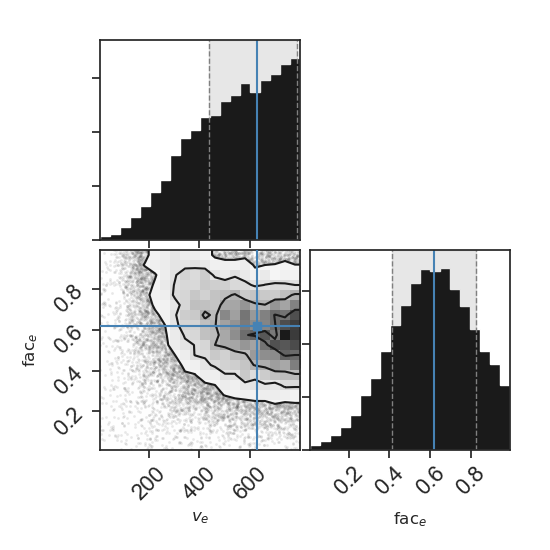
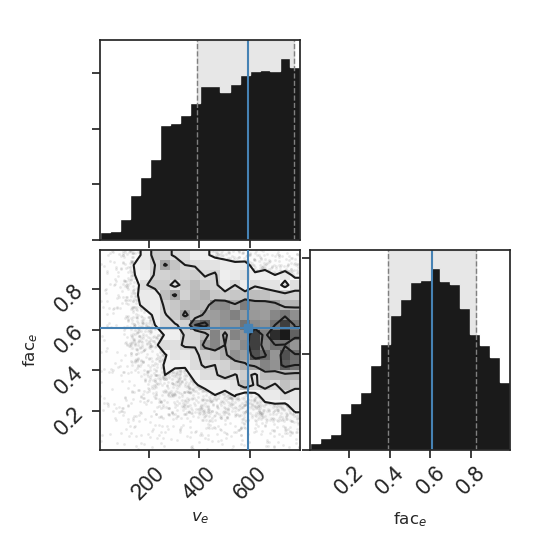
commiting to merge

diff --git a/bemcee/utils.py b/bemcee/utils.py
@@ -510,46 +510,47 @@ def readBAsed(xdrpath, quiet=False):
     | OUTPUT: listpar, lbdarr, minfo, models
     | (list of mods parameters, lambda array (um), mods index, mods flux)
     """
-    f = open(xdrpath, "rb").read()
-    ixdr = 0
-    #
-    npxs = 3
-    upck = ">{0}l".format(npxs)
-    header = np.array(struct.unpack(upck, f[ixdr : ixdr + npxs * 4]))
-    ixdr += npxs * 4
-    nq, nlb, nm = header
-    #
-    npxs = nq
-    upck = ">{0}l".format(npxs)
-    header = np.array(struct.unpack(upck, f[ixdr : ixdr + npxs * 4]))
-    ixdr += npxs * 4
-    #
-    listpar = [[] for i in range(nq)]
-    for i in range(nq):
-        npxs = header[i]
-        upck = ">{0}f".format(npxs)
-        listpar[i] = np.array(struct.unpack(upck, f[ixdr : ixdr + npxs * 4]))
+    with open(xdrpath, "rb") as fi:
+        f = fi.read()
+        ixdr = 0
+        #
+        npxs = 3
+        upck = ">{0}l".format(npxs)
+        header = np.array(struct.unpack(upck, f[ixdr : ixdr + npxs * 4]))
         ixdr += npxs * 4
-    #
-    npxs = nlb
-    upck = ">{0}f".format(npxs)
-    lbdarr = np.array(struct.unpack(upck, f[ixdr : ixdr + npxs * 4]))
-    ixdr += npxs * 4
-    #
-    npxs = nm * (nq + nlb)
-    upck = ">{0}f".format(npxs)
-    models = np.array(struct.unpack(upck, f[ixdr : ixdr + npxs * 4]))
-    ixdr += npxs * 4
-    models = models.reshape((nm, -1))
-    # this will check if the XDR is finished.
-    if ixdr == len(f):
-        if not quiet:
-            print("# XDR {0} completely read!".format(xdrpath))
-    else:
-        _warn.warn(
-            "# XDR {0} not completely read!\n# length "
-            "difference is {1}".format(xdrpath, (len(f) - ixdr) / 4)
-        )
+        nq, nlb, nm = header
+        #
+        npxs = nq
+        upck = ">{0}l".format(npxs)
+        header = np.array(struct.unpack(upck, f[ixdr : ixdr + npxs * 4]))
+        ixdr += npxs * 4
+        #
+        listpar = [[] for i in range(nq)]
+        for i in range(nq):
+            npxs = header[i]
+            upck = ">{0}f".format(npxs)
+            listpar[i] = np.array(struct.unpack(upck, f[ixdr : ixdr + npxs * 4]))
+            ixdr += npxs * 4
+        #
+        npxs = nlb
+        upck = ">{0}f".format(npxs)
+        lbdarr = np.array(struct.unpack(upck, f[ixdr : ixdr + npxs * 4]))
+        ixdr += npxs * 4
+        #
+        npxs = nm * (nq + nlb)
+        upck = ">{0}f".format(npxs)
+        models = np.array(struct.unpack(upck, f[ixdr : ixdr + npxs * 4]))
+        ixdr += npxs * 4
+        models = models.reshape((nm, -1))
+        # this will check if the XDR is finished.
+        if ixdr == len(f):
+            if not quiet:
+                print("# XDR {0} completely read!".format(xdrpath))
+        else:
+            _warn.warn(
+                "# XDR {0} not completely read!\n# length "
+                "difference is {1}".format(xdrpath, (len(f) - ixdr) / 4)
+            )
     #
     return listpar, lbdarr, models[:, 0:nq], models[:, nq:]
 

diff --git a/new_redplot.py b/new_redplot.py
@@ -602,21 +602,34 @@ tag = "+acol_vsiniPrior_distPriorUV+VIS+NIR+MIR+FIR+MICROW+RADIO+Ha"
 # 22-06-22-100634Walkers_300_Nmcmc_7000_af_0.30_a_2.0+aeri_vsiniPrior_distPrior_inclPriorUV.npy
 # 22-06-25-072903Walkers_300_Nmcmc_7000_af_0.34_a_2.0+aeri_vsiniPrior_distPrior_inclPriorUV.npy
 # 22-06-27-065631Walkers_300_Nmcmc_7000_af_0.28_a_2.0+aeri_vsiniPrior_distPriorUV.npy
-af = "0.30"
-date = "22-06-22-100634"
+# 22-06-29-082543Walkers_300_Nmcmc_7000_af_0.31_a_2.0+aeri_vsiniPrior_distPrior_inclPriorUV.npy
+# 22-06-29-060044Walkers_300_Nmcmc_7000_af_0.29_a_2.0+aeri_distPrior_inclPriorUV.npy
+af = "0.31"
+date = "22-06-29-082543"
 tag = "+aeri_vsiniPrior_distPrior_inclPriorUV"
 
+nchain = (
+    "22-06-29-060044Walkers_300_Nmcmc_7000_af_0.29_a_2.0+aeri_distPrior_inclPriorUV"
+)
+
+date = nchain.split("Walkers")[0]
+Nwalk = nchain.split("Walkers")[1].split("_")[1]
+Nmcmc = nchain.split("Walkers")[1].split("_")[3]
+af = nchain.split("Walkers")[1].split("_")[5]
+apar = nchain.split("Walkers")[1].split("+")[0][-3:]
+tag = "+" + nchain.split("Walkers")[1].split("+")[-1]
+model = nchain.split("Walkers")[1].split("+")[1].split("_")[0]
 
 current_folder = str(flag.folder_fig) + str(flag.stars) + "/"
 fig_name = (
     "Walkers_"
     + str(Nwalk)
     + "_Nmcmc_"
-    + str(nint_mcmc)
+    + str(Nmcmc)
     + "_af_"
     + str(af)
     + "_a_"
-    + str(flag.a_parameter)
+    + str(apar)
     + tag
 )
 file_npy = (
@@ -627,11 +640,11 @@ file_npy = (
     + "Walkers_"
     + str(Nwalk)
     + "_Nmcmc_"
-    + str(nint_mcmc)
+    + str(Nmcmc)
     + "_af_"
     + str(af)
     + "_a_"
-    + str(flag.a_parameter)
+    + str(apar)
     + tag
     + ".npy"
 )
@@ -645,19 +658,19 @@ samples = np.copy(flatchain_1)[-100000:]
 
 
 for i in range(len(samples)):
-    if flag.model == "acol" or flag.model == "aara":
+    if model == "acol" or model == "aara":
         samples[i][1] = obl2W(samples[i][1])
         samples[i][2] = hfrac2tms(samples[i][2])
         samples[i][6] = (np.arccos(samples[i][6])) * (180.0 / np.pi)
 
-    elif flag.model == "aeri":
+    elif model == "aeri":
         samples[i][3] = (np.arccos(samples[i][3])) * (180.0 / np.pi)
 
-    elif flag.model == "beatlas":
+    elif model == "beatlas":
         samples[i][1] = obl2W(samples[i][1])
         samples[i][4] = (np.arccos(samples[i][4])) * (180.0 / np.pi)
 
-    if flag.model == "aara":
+    if model == "aara":
         samples[i][5] = samples[i][5] + 1.5
 
 new_ranges = []

diff --git a/convo.py b/convo.py
@@ -48,8 +48,8 @@ def gaussian1d(npix, fwhm, normalize=True):
 
 def gaussfold(lam, flux, fwhm):
 
-    lammin = -1500
-    lammax = 1500
+    lammin = -2500
+    lammax = 2500
 
     dlambda = fwhm / float(17)
     interlam = lammin + dlambda * np.arange(float((lammax - lammin) / dlambda + 1))
@@ -115,12 +115,13 @@ def log_prior(params, ranges, vmod, fmod):
 
 def log_like(params, vmod, flux, dflux, fmod):
     # v_h, v_e, fac_e = params
-    fconv = gauss_conv(params, vmod, fmod)
     limits = np.logical_and(vmod > -600, vmod < 600)
+    fconv = gauss_conv(params, vmod[limits], fmod[limits])
+    # limits = np.logical_and(vmod > -600, vmod < 600)
     # blimits = np.logical_or(vmod < -75.0, vmod > 75.0)
     # limits = np.logical_and(alimits, blimits)
 
-    chi2 = np.sum((flux[limits] - fconv[limits]) ** 2 / (dflux[limits]) ** 2.0)
+    chi2 = np.sum((flux[limits] - fconv) ** 2 / (dflux[limits]) ** 2.0)
     # plt.plot(vmod[limits], flux[limits], "r")
     # plt.plot(vmod[limits], fconv[limits], "b")
     # plt.show()
@@ -139,6 +140,7 @@ if __name__ == "__main__":
     star = "HD37795"
     nchain = "22-06-24-183819Walkers_500_Nmcmc_5000_af_0.22_a_2.0+acol_vsiniPrior_distPriorUV+VIS+NIR+MIR+FIR+MICROW+RADIO+Ha.npy"
     pars, errs = get_result(nchain, star)
+    np.savez("for_acol", pars=pars, errs=errs)
     print(pars)
     M, W, ttms, sig0, Rd, mr, i, dist, ebmv = [a[0] for a in pars]
     # M = 4.7727121
@@ -211,10 +213,10 @@ if __name__ == "__main__":
         nwalkers, ndim, log_prob, args=[vmod, flux, dflux, ranges, fmod]
     )
 
-    state = sampler.run_mcmc(p0, 200, progress=True)
+    state = sampler.run_mcmc(p0, 100, progress=True)
     sampler.reset()
 
-    sampler.run_mcmc(state, 3000, progress=True)
+    sampler.run_mcmc(state, 1000, progress=True)
 
     flat_samples = sampler.get_chain(discard=200, thin=15, flat=True)
 
@@ -259,8 +261,10 @@ if __name__ == "__main__":
     plt.savefig("convo_corner.png")
     plt.close()
     fig2 = plt.figure(2)
-    plt.plot(vmod, flux, "o", alpha=0.5, label="EW = {:.2f}".format(EW_data))
+    plt.plot(vel, flux, "o", alpha=0.5, label="EW = {:.2f}".format(EW_data))
     bflux = gauss_conv([best_pars[0][0], best_pars[1][0]], vmod, fmod)
     bEW = spec.EWcalc(vmod, bflux) / 10.0
     plt.plot(vmod, bflux, label="EW = {:.2f}".format(bEW))
+    plt.legend()
+    plt.xlim(-1000, 1000)
     plt.savefig("convo_fit.png")

diff --git a/bemcee/corner_HDR.py b/bemcee/corner_HDR.py
@@ -20,13 +20,15 @@ __all__ = ["corner", "hist2d", "quantile"]
 import seaborn as sns
 import matplotlib.ticker as ticker
 
-# sfmt = ticker.ScalarFormatter(useMathText=True)
+sfmt = ticker.ScalarFormatter(useMathText=True)
 # sfmt.set_powerlimits((0, 0))
-# sfmt.set_scientific(True)
-# sfmt.set_powerlimits((-2, 3))
+sfmt.set_scientific(True)
+sfmt.set_powerlimits((-2, 3))
 
-sns.set(style="ticks")
-# sns.set_style("white", {"xtick.major.direction": "in", "ytick.major.direction": "in"})
+# sns.set(style="ticks")
+sns.set_style(
+    "white"
+)  # , {"xtick.major.direction": "in", "ytick.major.direction": "in"})
 
 
 def corner(

diff --git a/gcas_user_settings.py b/gcas_user_settings.py
@@ -63,7 +63,7 @@ Hg =            False
 
 pol = False
 
-corner_color = 'orange' # OPTIONS ARE: blue, dark blue, teal, green, yellow, orange, red, purple, violet, pink.
+corner_color = 'violet' # OPTIONS ARE: blue, dark blue, teal, green, yellow, orange, red, purple, violet, pink.
                   # IF YOU DO NOT CHOOSE A COLOR, A RANDOM ONE WILL BE SELECTED
 
 # Plot options

diff --git a/bemcee/lines_reading.py b/bemcee/lines_reading.py
@@ -374,7 +374,7 @@ def read_acol_Ha_xdr(lista_obs):
             if minfo[i][j] < 0:
                 minfo[i][j] = 0.0
 
-    for i in range(np.shape(listpar)[0]):
+    for i in range(len(listpar)):
         for j in range(len(listpar[i])):
             if listpar[i][j] < 0:
                 listpar[i][j] = 0.0

diff --git a/get_results_from_chain.py b/get_results_from_chain.py
@@ -32,7 +32,7 @@ def get_result(nchain, star):
     flatchain_1 = chain.reshape((-1, chain.shape[-1]))
     Ndim = chain.shape[-1]
 
-    samples = np.copy(flatchain_1)[-300000:]
+    samples = np.copy(flatchain_1)  # [-300000:]
 
     for i in range(len(samples)):
         if model == "acol" or model == "aara":
